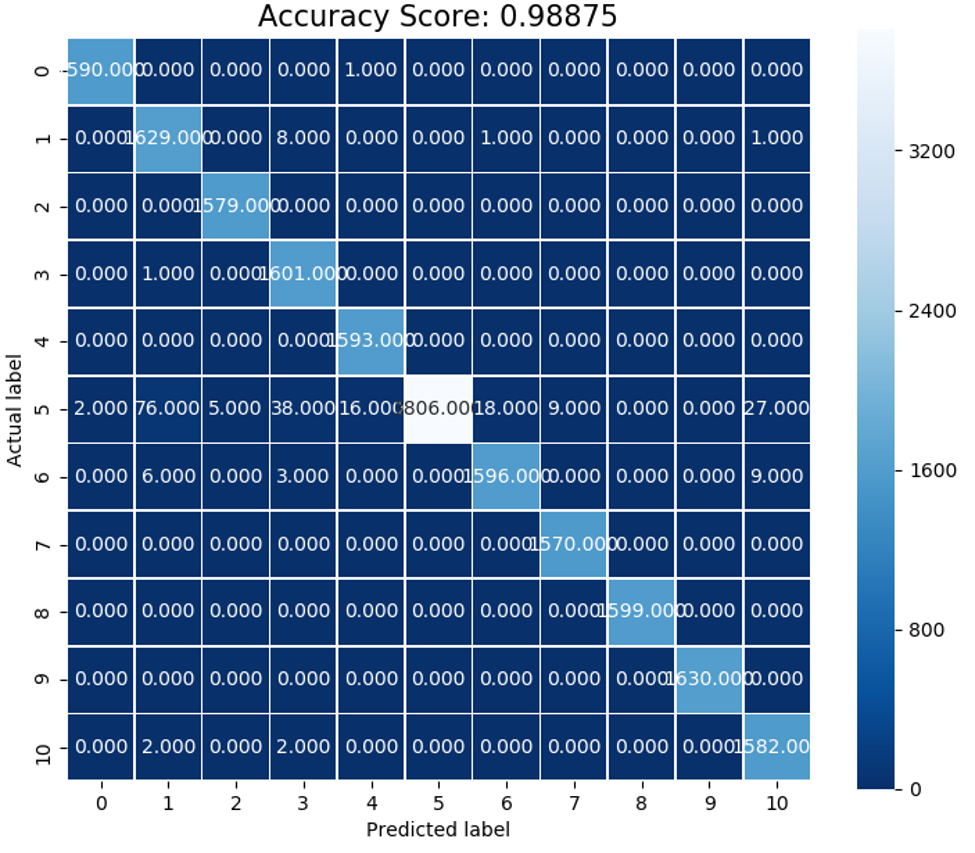
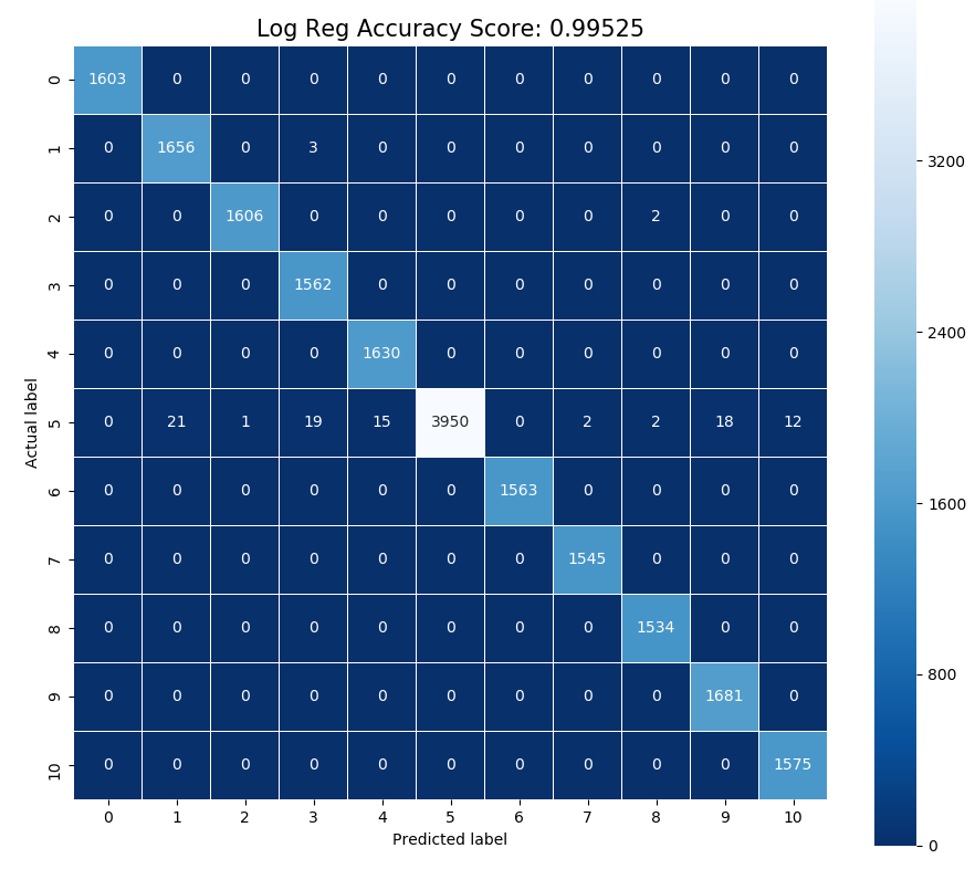
Updated all models, readme, and command list
Fully implemented random_forest.py.

Cleaned logistic_regression.py

Vastly improved neural_network.py by adding layers and better params.

Took screenshots of additional graphs showing model performance.

updated readme with all results.

updated full_program_ command_list to include random forest.

Changed region(s): [[0.0, 0.0, 1.0, 1.0]]

diff --git a/models/neural_network.py b/models/neural_network.py
@@ -25,18 +25,21 @@ class Model(object):
 		self.model = Sequential()
 
 		# input layer
-		self.model.add(Dense(output*4, input_shape=[self.X_train.shape[1]], activation='relu', W_regularizer=l2(0.1)))
-		# model performs best without hidden layers
+		self.model.add(Dense(output*16, input_shape=[self.X_train.shape[1]], activation='relu', W_regularizer=l2(0.1)))
+		# hidden layers
+		self.model.add(Dense(output*12, activation='relu', W_regularizer=l2(0.01)))
+		self.model.add(Dense(output*8, activation='relu', W_regularizer=l2(0.001)))
+		#self.model.add(Dense(output*4, activation='relu', W_regularizer=l2(0.001)))
 		# output layer
-		self.model.add(Dense(output, activation='sigmoid', W_regularizer=l2(0.01)))
+		self.model.add(Dense(output, activation='softmax', W_regularizer=l2(0.001)))
 
 		sgd = SGD(lr=0.1)
 		self.model.compile(loss='categorical_crossentropy', optimizer=sgd, metrics=['accuracy'])
 
 		print(self.model.summary())
 
-	def fit_data(self, batch=256, epochs=100, verbose=2):
-		history = self.model.fit(self.X_train, self.y_train, batch_size=batch, epochs=epochs, verbose=verbose, validation_data=(self.X_test, self.y_test), validation_freq=10)
+	def fit_data(self, batch=405, epochs=50, verbose=2):
+		history = self.model.fit(self.X_train, self.y_train, batch_size=batch, epochs=epochs, verbose=verbose, validation_data=(self.X_test, self.y_test))
 
 		return history
 
@@ -44,7 +47,7 @@ class Model(object):
 		# Summary of loss history
 		plt.plot(history.history['loss'])
 		plt.plot(history.history['val_loss'], 'g--')
-		plt.title('Logistic Regression Model Loss')
+		plt.title('Model Loss Over Epochs')
 		plt.ylabel('Categorical Crossentropy')
 		plt.xlabel('Epoch')
 		plt.legend(['Training Loss', 'Testing Loss'], loc='upper right')
@@ -57,7 +60,7 @@ class Model(object):
 		# Summary of accuracy history
 		plt.plot(history.history['accuracy'])
 		plt.plot(history.history['val_accuracy'], 'g--')
-		plt.title('Logistic Regression Model Accuracy')
+		plt.title('Model Accuracy Over Epochs')
 		plt.ylabel('Model Accuracy')
 		plt.xlabel('Epoch')
 		plt.legend(['Training Accuracy', 'Testing Accuracy'], loc='lower left')

diff --git a/models/random_forest.py b/models/random_forest.py
@@ -1,0 +1,60 @@
+import numpy as np
+import matplotlib.pyplot as plt
+from sklearn.model_selection import train_test_split
+from sklearn.feature_extraction.text import CountVectorizer
+from sklearn.ensemble import RandomForestClassifier
+import seaborn as sns
+from sklearn import metrics
+
+class Model(object):
+
+	def __init__(self, data):
+		X, y = self._transform_data(data)
+
+		self.X_train, self.X_test, self.y_train, self.y_test = train_test_split(X, y, test_size=0.2, random_state=50)
+		
+		print('Train Data Shape:',self.X_train.shape)
+		print('Train Labels Shape:',self.y_train.shape)
+
+	def init_rf(self):
+		self.rf = RandomForestClassifier(n_estimators=100)
+
+	def fit_data(self):
+		self.rf.fit(self.X_train, self.y_train)
+
+		score = self.rf.score(self.X_test, self.y_test)
+
+		predictions = self.rf.predict(self.X_test)
+
+		print('Accuracy:',score)
+
+		return score, predictions
+
+	def plot_confusion_matrix(self, score, predictions):
+		# Plot overall accuracy and accuracy of each individual label
+		cm = metrics.confusion_matrix(self.y_test, predictions)
+		plt.figure(figsize=(11,11))
+		sns.heatmap(cm, annot=True, fmt=".0f", linewidths=.5, square = True);
+		plt.ylabel('Actual label');
+		plt.xlabel('Predicted label');
+		all_sample_title = 'Random Forest Accuracy Score: {0}'.format(score)
+		plt.title(all_sample_title, size = 15);
+		plt.show()
+
+	def predict(self, data):
+		X, y = self._transform_data(data)
+		
+		predictions = self.rf.predict(X)
+		score = self.rf.score(X, y)
+		
+	def _transform_data(self, data):
+		train_data = np.array([i[1] for i in data])
+		train_labels = np.array([i[2] for i in data])
+
+		vectorizer = CountVectorizer()
+		vectorizer.fit(train_data)
+		X = vectorizer.transform(train_data)
+
+		y = train_labels
+
+		return X, y

diff --git a/models/logistic_regression.py b/models/logistic_regression.py
@@ -1,9 +1,6 @@
 import numpy as np
-import pandas as pd
 import matplotlib.pyplot as plt
 from sklearn.model_selection import train_test_split
-from sklearn.preprocessing import MultiLabelBinarizer, OneHotEncoder
-from sklearn import preprocessing
 from sklearn.feature_extraction.text import CountVectorizer
 from sklearn.linear_model import LogisticRegression
 import seaborn as sns
@@ -29,16 +26,18 @@ class Model(object):
 
 		predictions = self.lr.predict(self.X_test)
 
+		print('Accuracy:',score)
+
 		return score, predictions
 
 	def plot_confusion_matrix(self, score, predictions):
 		# Plot overall accuracy and accuracy of each individual label
 		cm = metrics.confusion_matrix(self.y_test, predictions)
 		plt.figure(figsize=(11,11))
-		sns.heatmap(cm, annot=True, fmt=".3f", linewidths=.5, square = True, cmap = 'Blues_r');
+		sns.heatmap(cm, annot=True, fmt=".0f", linewidths=.5, square = True, cmap = 'Blues_r');
 		plt.ylabel('Actual label');
 		plt.xlabel('Predicted label');
-		all_sample_title = 'Accuracy Score: {0}'.format(score)
+		all_sample_title = 'Log Reg Accuracy Score: {0}'.format(score)
 		plt.title(all_sample_title, size = 15);
 		plt.show()
 

diff --git a/README.md b/README.md
@@ -22,9 +22,15 @@ Prior to any of the models being run, the data is vectorized (the strings are co
 ## Neural Network
 The first model designed for this project is a neural network. It can be instantiated with `nn_model = neural_network.Model(train_data)`.
 
-The neural network model utilizes only the input and output layers. Extensive testing determined that hidden layers only proved detrimental to the prediction process, with the amount of accuracy lost ranging from -0.15 to -0.7. With its current setup, the neural network consistently performs at and above 0.96 accuracy, with a mean squared error in the realm of <>.
+When first testing the neural network, it seemed that hidden layers were only causing accuracy to wane, going from .85 accuracy without hidden layers to .2 with them. After extensive testing, it was uncovered that the hidden layers were not the problem, it was the output sizes of the input and hidden layers. The output sizes were far too small to handle an input shape of roughly 400. Once output sizes were increased, the model improved drastically, lowering its loss to .48 and increasing its accuracy by .13.
 
-Due to the lack of features and complexity, a neural network is one of the less optimal models to use for this project. As you will see, other models easily match and outpace the neural network, while running much more quickly. A version of this project that may be more conducive to neural networks would use video of a third-base coach giving signs, rather than just a string of coded signs.
+To further improve the model, the output layer's activation function was changed from 'sigmoid' to a 'softmax' activation function. This helped the model improve even more, albeit not as impressively as when output sizes were increased. Below are before and after photos when the model ran without hidden layers and 'sigmoid' activation vs. with hidden layers and 'softmax'.
+![before loss](https://github.com/bjhammack/predictive_models_to_id_baseball_signs/blob/master/images/nn_pre_sm_loss.png?raw=true "Before Loss")
+![before accuracy](https://github.com/bjhammack/predictive_models_to_id_baseball_signs/blob/master/images/nn_pre_sm_acc.png?raw=true "Before Accuracy")
+![after loss](https://github.com/bjhammack/predictive_models_to_id_baseball_signs/blob/master/images/nn_post_sm_loss.png?raw=true "After Loss")
+![after accuracy](https://github.com/bjhammack/predictive_models_to_id_baseball_signs/blob/master/images/nn_post_sm_acc.png?raw=true "After Accuracy")
+
+Due to the lack of features and complexity, a neural network is one of the less optimal models to use for this project; though we can improve its runtime by adjusting epochs and batch sizes based on the results we are getting. As you will see, other models easily match and outpace the neural network, while running much more quickly. A version of this project that may be more conducive to neural networks would use video of a third-base coach giving signs, rather than just a string of coded signs.
 
 ## Logistic Regression
 The second model designed to predict the signs being given is logistic regression. The version of logistic regression being used is the sklearn standard LogisticRegression class.
@@ -32,4 +38,12 @@ The second model designed to predict the signs being given is logistic regressio
 Logistic regression performed exceptionally well on this problem, providing no lower than 0.98 and sometimes north of 0.99 accuracy on our test sets. This is of no huge surprise, as this problem is extremely well-suited for logisitic regression.
 
 As examination of the confusion matrix -- which can be called with `lr_model.plot_confusion_matrix(score, predictions)` -- shows us that the majority of incorrect predictions revolve around the 'none' labeled signs, meaning that the model is seeing false positives, when there are no real signs. This could mean one of two thing: either actual signs were inserted into these assumed 'none' columns -- this is possibility because the function for creating these pseudo-signs does not have a robust check for this scenario yet -- or the model doesn't identify the full sequence of real signs, only parts of them. This would ensure that the true signs are almost always identified, but opens the door for false positives like we are seeing.
-![confusion matrix](https://github.com/bjhammack/nn_baseball_sign_predictor/blob/master/images/lr_confusion_matrix.png?raw=true)
+![confusion matrix](https://github.com/bjhammack/predictive_models_to_id_baseball_signs/blob/master/images/lr_confusion_matrix.png?raw=true)
+
+## Random Forest
+The random forest model, whose data transformation methodology closely resembles that of the log reg model, performed just as exceptionally.
+
+Just like the logistic regression model, the random forest never rated below .98 accuracy, while consistently hitting .99 too. To reiterate the previous section, this sort of problem is especially suited for logisitic regression and random forest models, so combining the high quality of the data with that fact and you're bound to achieve impressive results.
+
+One potentially interesting aspect of the random forest model is the confusion matrix. Just like logistic regression, most false positives involved the 'none' label, but unlike log reg it seemed specific labels had a noticeably higher rate of false positive than others. It may just be a coincidence that the test runs produced these results consistently, but further digging may reveal that the random forest structure interprets the data in the such a way that makes certain types of signs less consistent.
+![confusion matrix](https://github.com/bjhammack/predictive_models_to_id_baseball_signs/blob/master/images/rf_confusion_matrix.png?raw=true)
